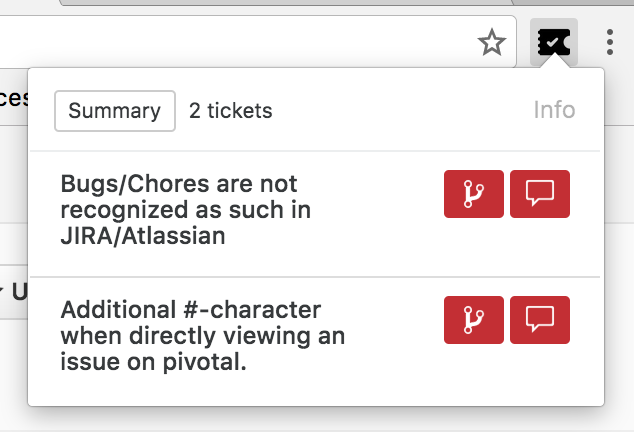
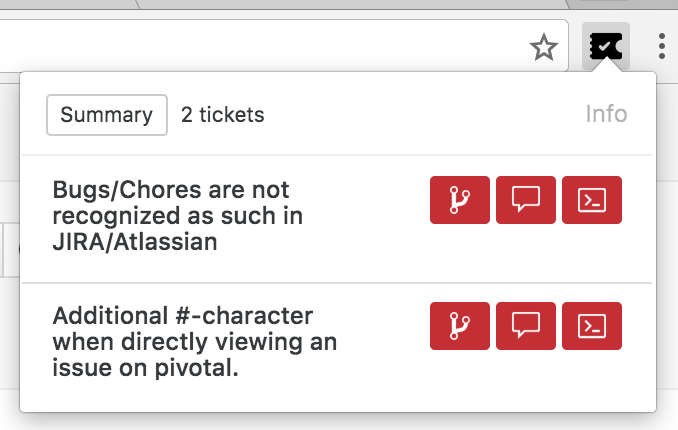
[#34] CLI command to generate commit message from branch name (#36)
* [#34] CLI command to generate commit message from branch name

* Add tests and new screenshot

* Fix CI issues

* Iterate on README

Move explanation of generated git commands and assumptions to the bottom
so readers have a chance to get an overview first and then dive into the
details if they decide Tickety-Tick is for them.

* Create a crisper screenshot

Apparently, screenshots created on external displays are not as good as
those created from a window on the Mac Retina screen.

Also PNG may be the better format for the screenshot here.

* Make commit message shell-safe (step 1)

Use single-quotes over double quotes:

$ echo "$USER"
pmeinhardt

$ echo '$USER'
$USER

* Make copyable commands shell-safe (part 2)

Unfortunately I could not find a JavaScript package, that implements
shell-escaping. The `shellquote` function implemented here currently
does the following:

  1. Wraps argument in single-quotes (or returns '' if none given)
  2. Escapes any single-quotes in the input string

Shell-quoting is applied to both the branch name and the commit message
generated by Tickety-Tick.

I do not at all like implementing such a crucial function here and will
do some more research into available candidate implementations & further
potential issues (e.g. Unicode).

* Add git command copy-button spec

Changed region(s): [[0.0, 0.0, 1.0, 0.9674], [0.959, 0.0605, 0.989, 0.1512]]

diff --git a/src/common/popup/components/ticket-list.jsx b/src/common/popup/components/ticket-list.jsx
@@ -11,15 +11,16 @@ function TicketListItem(props) {
   const ticket = props.ticket;
   const commit = fmt.commit(ticket);
   const branch = fmt.branch(ticket);
+  const command = fmt.command(ticket);
 
   return (
     <li className="list-group-item list-group-item-tt">
       <div className="container list-group-container">
         <div className="row">
-          <div className="col-xs-8">
+          <div className="col-xs-7">
             <h6 className="list-group-heading">{ticket.title}</h6>
           </div>
-          <div className="col-xs-4 text-xs-right">
+          <div className="col-xs-5 text-xs-right">
             <CopyButton
               className="btn btn-primary btn-sm"
               title="Branch name"
@@ -35,6 +36,14 @@ function TicketListItem(props) {
               tabIndex={1}
             >
               <span className="octicon octicon-sm" dangerouslySetInnerHTML={svg('comment')} />
+            </CopyButton>
+            <CopyButton
+              className="btn btn-primary btn-sm pq"
+              title="CLI command"
+              value={command}
+              tabIndex={1}
+            >
+              <span className="octicon octicon-sm" dangerouslySetInnerHTML={svg('terminal')} />
             </CopyButton>
           </div>
         </div>

diff --git a/spec/popup/format-spec.js b/spec/popup/format-spec.js
@@ -31,6 +31,37 @@ describe('format util', () => {
     });
   });
 
+  describe('command', () => {
+    it('includes the quoted branch name and commit message', () => {
+      const quote = (arg) => (`'quoted-${arg}'`);
+
+      const branchname = 'branch-name';
+      const message = 'commit-message';
+
+      spyOn(format, 'shellquote').and.callFake(quote);
+
+      spyOn(format, 'branch').and.returnValue(branchname);
+      spyOn(format, 'commit').and.returnValue(message);
+
+      const formatted = format.command(ticket);
+
+      expect(format.shellquote.calls.count()).toBe(2);
+
+      expect(formatted).toBe(`git checkout -b ${quote(branchname)}`
+        + ` && git commit --allow-empty -m ${quote(message)}`);
+    });
+  });
+
+  describe('shellquote', () => {
+    it('wraps the input in single-quotes', () => {
+      expect(format.shellquote('echo "pwned"')).toBe('\'echo "pwned"\'');
+    });
+
+    it('escapes any single-quotes in the input', () => {
+      expect(format.shellquote('esc\'; echo "pwned"')).toBe('\'esc\'\\\'\'; echo "pwned"\'');
+    });
+  });
+
   describe('normalize', () => {
     it('formats normal strings', () => {
       const formatted = format.normalize('hello');

diff --git a/src/common/popup/utils/format.js b/src/common/popup/utils/format.js
@@ -2,20 +2,29 @@ import { createSlug } from 'speakingurl';
 
 const slugify = createSlug({ separator: '-' });
 
-function normalize(s) {
-  return slugify(s);
-}
+const format = {};
 
-function commit(ticket) {
-  return `[#${ticket.id}] ${ticket.title}`;
-}
-
-function branch(ticket) {
-  return `${ticket.type || 'feature'}/${ticket.id}-${normalize(ticket.title)}`;
-}
-
-export default {
-  normalize,
-  commit,
-  branch
+format.shellquote = function shellquote(s) {
+  if (typeof s === 'string') return `'${s.replace('\'', '\'\\\'\'')}'`;
+  return '\'\'';
 };
+
+format.normalize = function normalize(s) {
+  return slugify(s);
+};
+
+format.commit = function commit(ticket) {
+  return `[#${ticket.id}] ${ticket.title}`;
+};
+
+format.branch = function branch(ticket) {
+  return `${ticket.type || 'feature'}/${ticket.id}-${format.normalize(ticket.title)}`;
+};
+
+format.command = function command(ticket) {
+  const branchname = format.shellquote(format.branch(ticket));
+  const message = format.shellquote(format.commit(ticket));
+  return `git checkout -b ${branchname} && git commit --allow-empty -m ${message}`;
+};
+
+export default format;

diff --git a/spec/popup/components/ticket-list-spec.jsx b/spec/popup/components/ticket-list-spec.jsx
@@ -41,4 +41,9 @@ describe('ticket-list-item', () => {
     const buttons = wrapper.find(CopyButton);
     expect(buttons.someWhere((b) => b.prop('value') === fmt.branch(ticket))).toBe(true);
   });
+
+  it('renders a copy-button for the git commands', () => {
+    const buttons = wrapper.find(CopyButton);
+    expect(buttons.someWhere((b) => b.prop('value') === fmt.command(ticket))).toBe(true);
+  });
 });

diff --git a/src/common/popup/styles/_additions.scss b/src/common/popup/styles/_additions.scss
@@ -1,7 +1,7 @@
 // Popup
 
 .popup {
-  width: 285px;
+  width: 315px;
   min-height: 210px;
   padding-top: 42px;
 }

diff --git a/README.md b/README.md
@@ -8,12 +8,22 @@ certain ticket.
 
 ![screenshot](./screenshot.png)
 
-Branches always follow the format `type/id-title`, where `type` can be one of
-`feature`, `bug`, `chore` etc., `id` is the identifier of the ticket in your
-ticketing system and `title` is a lowercase, dasherized version of the ticket
-title.
+**Branches** always follow the format `type/id-title`, where:
 
-Commits always contain `[#id] title`.
+- `type` is usually one of:
+  - `feature` (default)
+  - `bug`
+  - `chore`
+  - …
+- `id` is the identifier of the ticket in your ticketing system
+- `title` is a lowercase, dasherized version of the ticket title
+
+**Commits** always contain `[#id] title`.
+
+Additionally, Tickety-Tick generates [**git commands**](#generated-commands) to
+set up a branch with the proper name and to prepare the commit message.
+
+## Supported ticket systems
 
 Tickety-Tick helps you create branches and commits for a few ticket systems.
 
@@ -21,7 +31,7 @@ Currently, we support:
 
 - GitHub
 - GitLab
-- Jira
+- JIRA
 - Pivotal Tracker
 - Trello
 
@@ -69,3 +79,31 @@ Same process as in [Chrome](#chrome).
 Open Safari and enable the "Developer Menu" in the application preferences. Now
 go to the developer menu and open the "Extension Builder". Press the "+" button
 and add the `dist/tickety-tick.safariextension` that you just built.
+
+## Generated commands
+
+As mentioned earlier, in addition to branch names and commit messages,
+Tickety-Tick generates git commands to set up a branch with the proper name
+and to prepare the commit message.
+
+The code generated for copying will look like this:
+
+```shell
+git checkout -b BRANCH-NAME && git commit --allow-empty -m COMMIT-MESSAGE
+```
+
+The generated commands make a few assumptions:
+
+1. *You're using git (obviously).* The branch names and commit messages
+   Tickety-Tick generates may work with other version control systems,
+   but the commands generated for copying specifically include git.
+2. *You squash commits from feature branches (or you're okay with empty commits).*
+   When you work with feature branches and you squash them before merging, git
+   (and GitHub) allow you to combine the messages of the feature-branch
+   commits. The empty commit provides a simple mechanism for storing the commit
+   message title generated by Tickety-Tick when setting up the branch.
+
+This approach works nicely with our git workflow, for which the above
+assumptions are true. Yours may be different though, in which case you may
+still like Tickety-Tick's ability to generate the branch names and commit
+messages for you.
